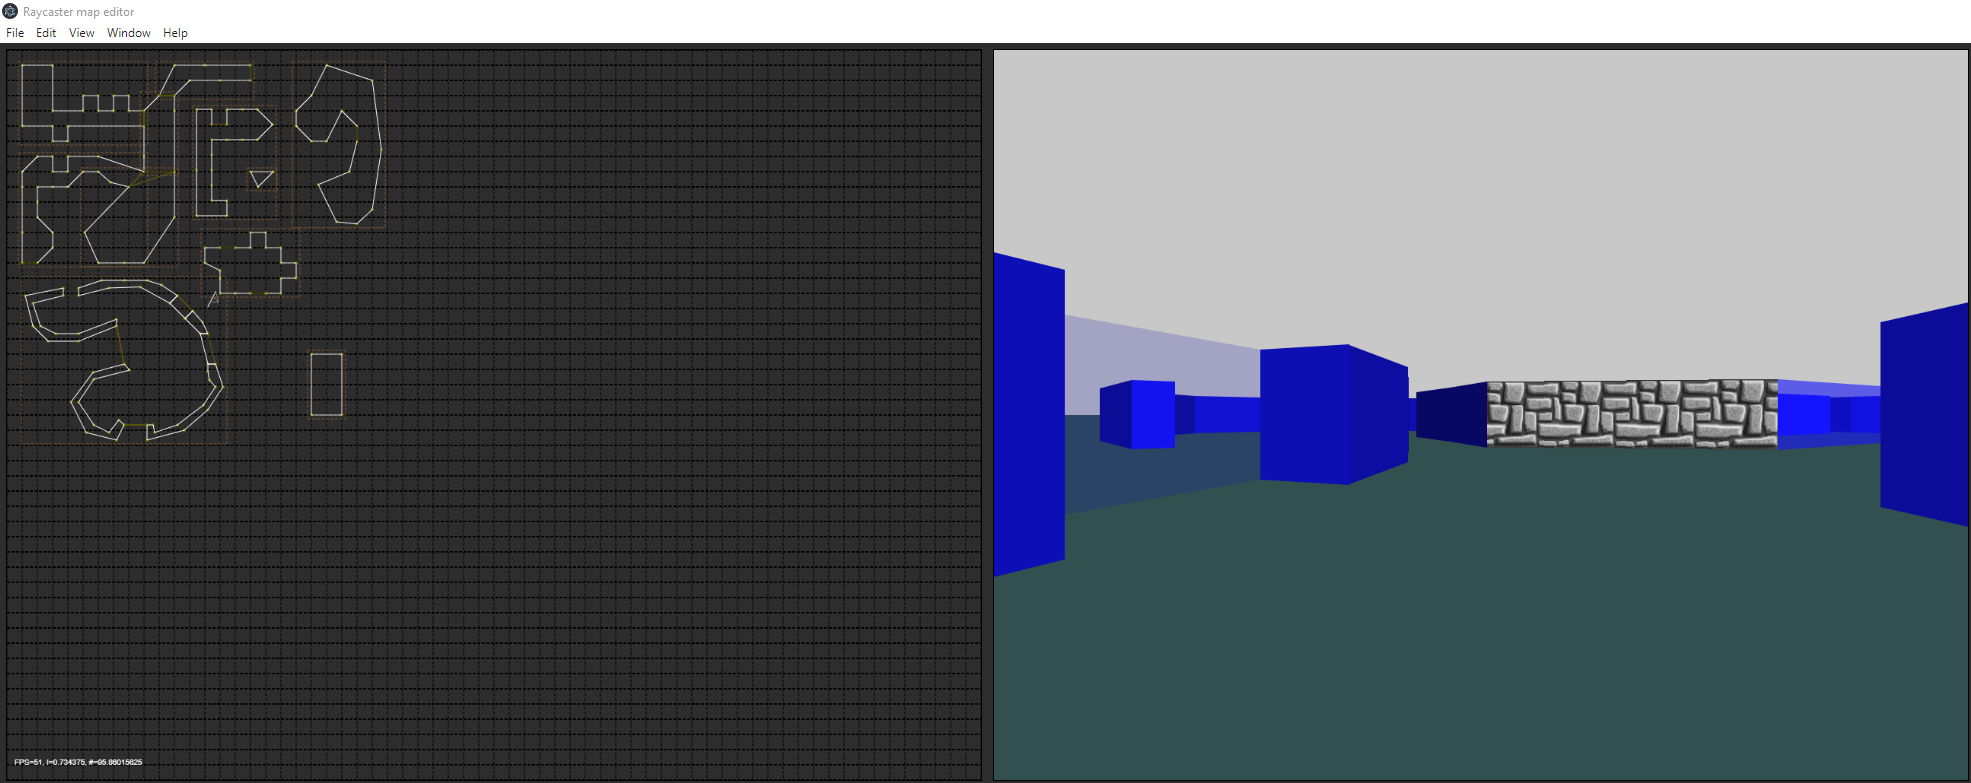
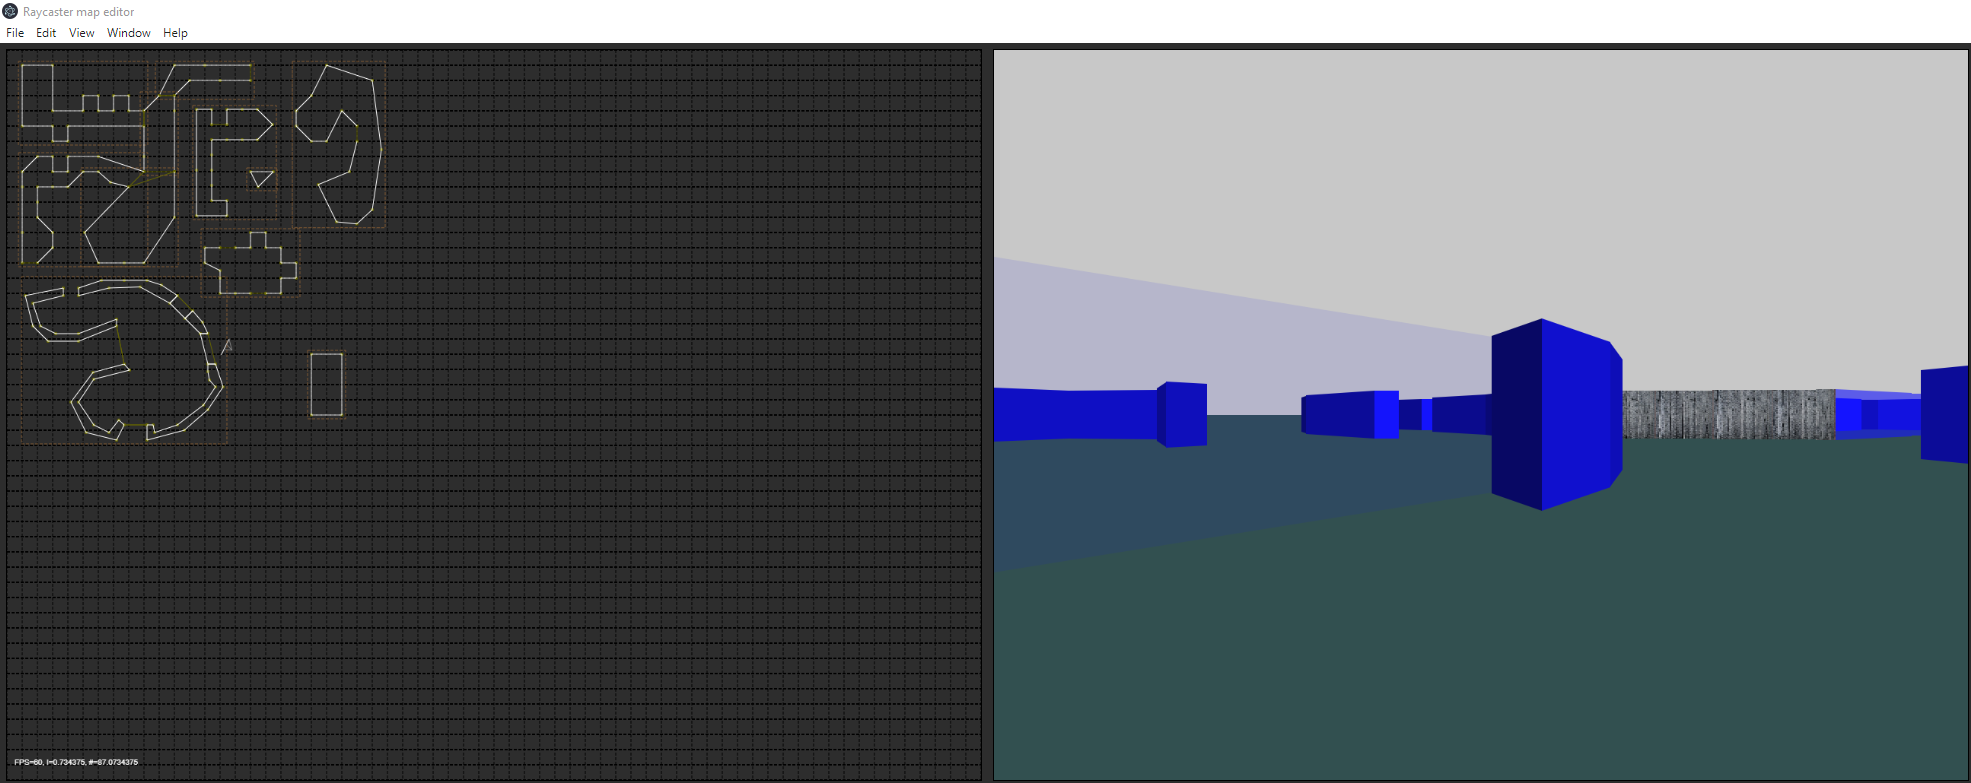
fix set texture image total width/height

Changed region(s): [[0.4952, 0.3065, 1.0, 0.7356]]

diff --git a/src/renderer3d.ts b/src/renderer3d.ts
@@ -32,10 +32,11 @@ export class Renderer3d {
         this.height = canvas.height;
         
         // load some test textures from the web
-        const imgUrl = 'https://lodev.org/cgtutor/images/wolftextures.png';
+        const imgUrl = 'https://filecache.garrysmods.org/2373/2/1024x768.jpg';
         this.textures = document.createElement('canvas') as HTMLCanvasElement;
 
         const textureContext = this.textures.getContext('2d');
+        this.textures.width = 1024; this.textures.height= 768;
         const img = new Image();
         img.onload = function() {            
             textureContext.drawImage(img, 0, 0);
@@ -49,7 +50,7 @@ export class Renderer3d {
         // this.rect(floorSkyPixels, 0, this.height/2,this.width, this.height, [50,80,80, 255]);
         // this.context.putImageData(this.floorSky,0,0);
     }
-    private resolution = 1280;
+    private resolution = 640;
     private horizonDistance = 250;
     
     private createWall = (hit: RayHit, rayIndex: number): WallProps => {
@@ -143,15 +144,15 @@ export class Renderer3d {
             this.context.fill();
         } else {            
             const tileFactor = 20 // => w.length for stretching
-            const twidth = 64;
-            const theight = 64;
-            const textureIndex = 3;
+            const twidth = 192;
+            const theight = 192;
+            const textureIndex = 1;
             for(let windex=wallProps.length-1; windex >= 0;windex--) {
                 const w = wallProps[windex];
                 const wx = distance(w.origin, w.intersection);
                 const [x1, x2] = wallProps[windex].colRange;
                 const [y1, y2] = wallProps[windex].rowRange;                
-                const tx = (twidth * wx / tileFactor) % (twidth-1);                
+                const tx = Math.floor((twidth * wx / tileFactor) % (twidth - 1));
                 this.context.drawImage(this.textures, tx+textureIndex*twidth, 0, 1, theight, x1, y1, x2-x1, y2-y1);                
             }          
         }
